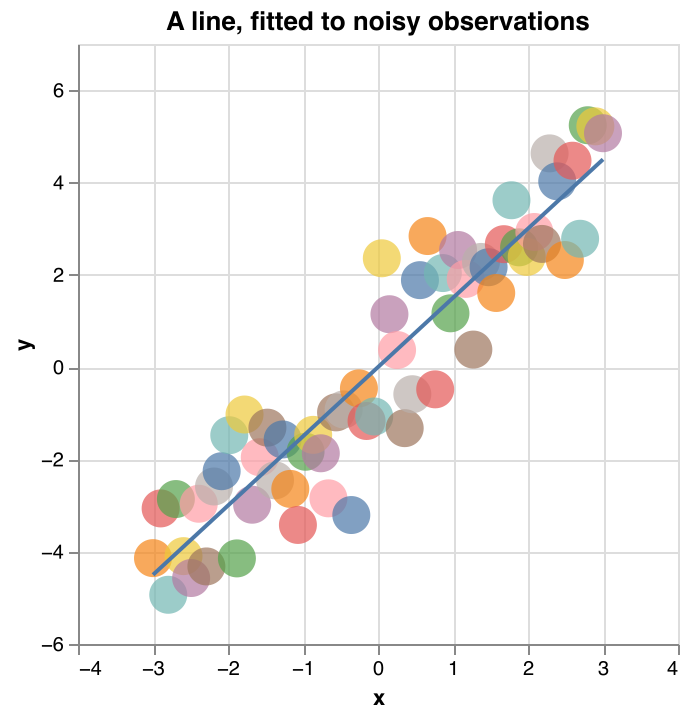
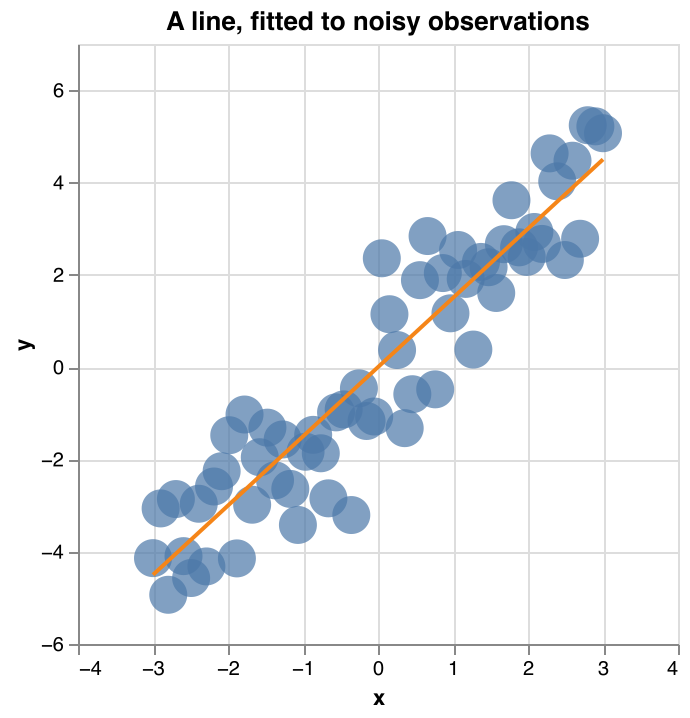
Fix scatterplot. Default same color and option for color (series)

Changed region(s): [[0.1826, 0.1226, 0.913, 0.8579]]

diff --git a/README.md b/README.md
@@ -70,12 +70,18 @@ plots.linePlot(
 ### Scatter plot
 
 `scatterPlot` places one point per index of the axis shared by `xs` and `ys`. An optional third tensor encodes the size
-of the points.
+of the points. All points share one colour.
 
 <img src="docs/plots/scatter.png" alt="Scatter plot" width="500">
 
 ```scala
 plots.scatterPlot(xs, ys, sizes, _.title := "y = 1.5 x + ε", _.encoding.x.title := "x", _.encoding.y.title := "y")
+```
+
+Passing a series name per point colours the points by series and adds a legend:
+
+```scala
+plots.scatterPlot(xs, ys, sizes, Seq("a", "a", "b"))
 ```
 
 [ScatterExample.scala](examples/src/main/scala/plots/ScatterExample.scala) — [scatter.png](docs/plots/scatter.png), [scatter.json](docs/plots/scatter.json)
@@ -162,7 +168,14 @@ A fitted line, layered on top of the observations it was fitted to:
 ```scala
 overlay(
   plots.scatterPlot(xs, observations, _.encoding.x.title := "x", _.encoding.y.title := "y"),
-  plots.linePlot(xs, fitted, _.title := "A line, fitted to noisy observations", _.encoding.x.title := "x", _.encoding.y.title := "y")
+  plots.linePlot(
+    xs,
+    fitted,
+    _.title := "A line, fitted to noisy observations",
+    _.encoding.x.title := "x",
+    _.encoding.y.title := "y",
+    _.encoding.color := Json.obj("value" -> Json.fromString("#f58518"))
+  )
 )
 ```
 
@@ -245,6 +258,6 @@ in [RenderPlots.scala](examples/src/main/scala/plots/RenderPlots.scala) and add 
 
 Five bodies, pulled around by their mutual gravity, simulated by the
 [n-body example](examples/src/main/scala/NBodyProblem.scala) — one `scatterPlot` per step, with the mass of a body as
-the size of its point. The example puts 1200 of those steps behind a `slider`.
+the size of its point and one series name per body, so that every body keeps its own colour. The example puts 1200 of those steps behind a `slider`.
 
 ![The n-body problem](docs/plots/nbody_animation.gif)
